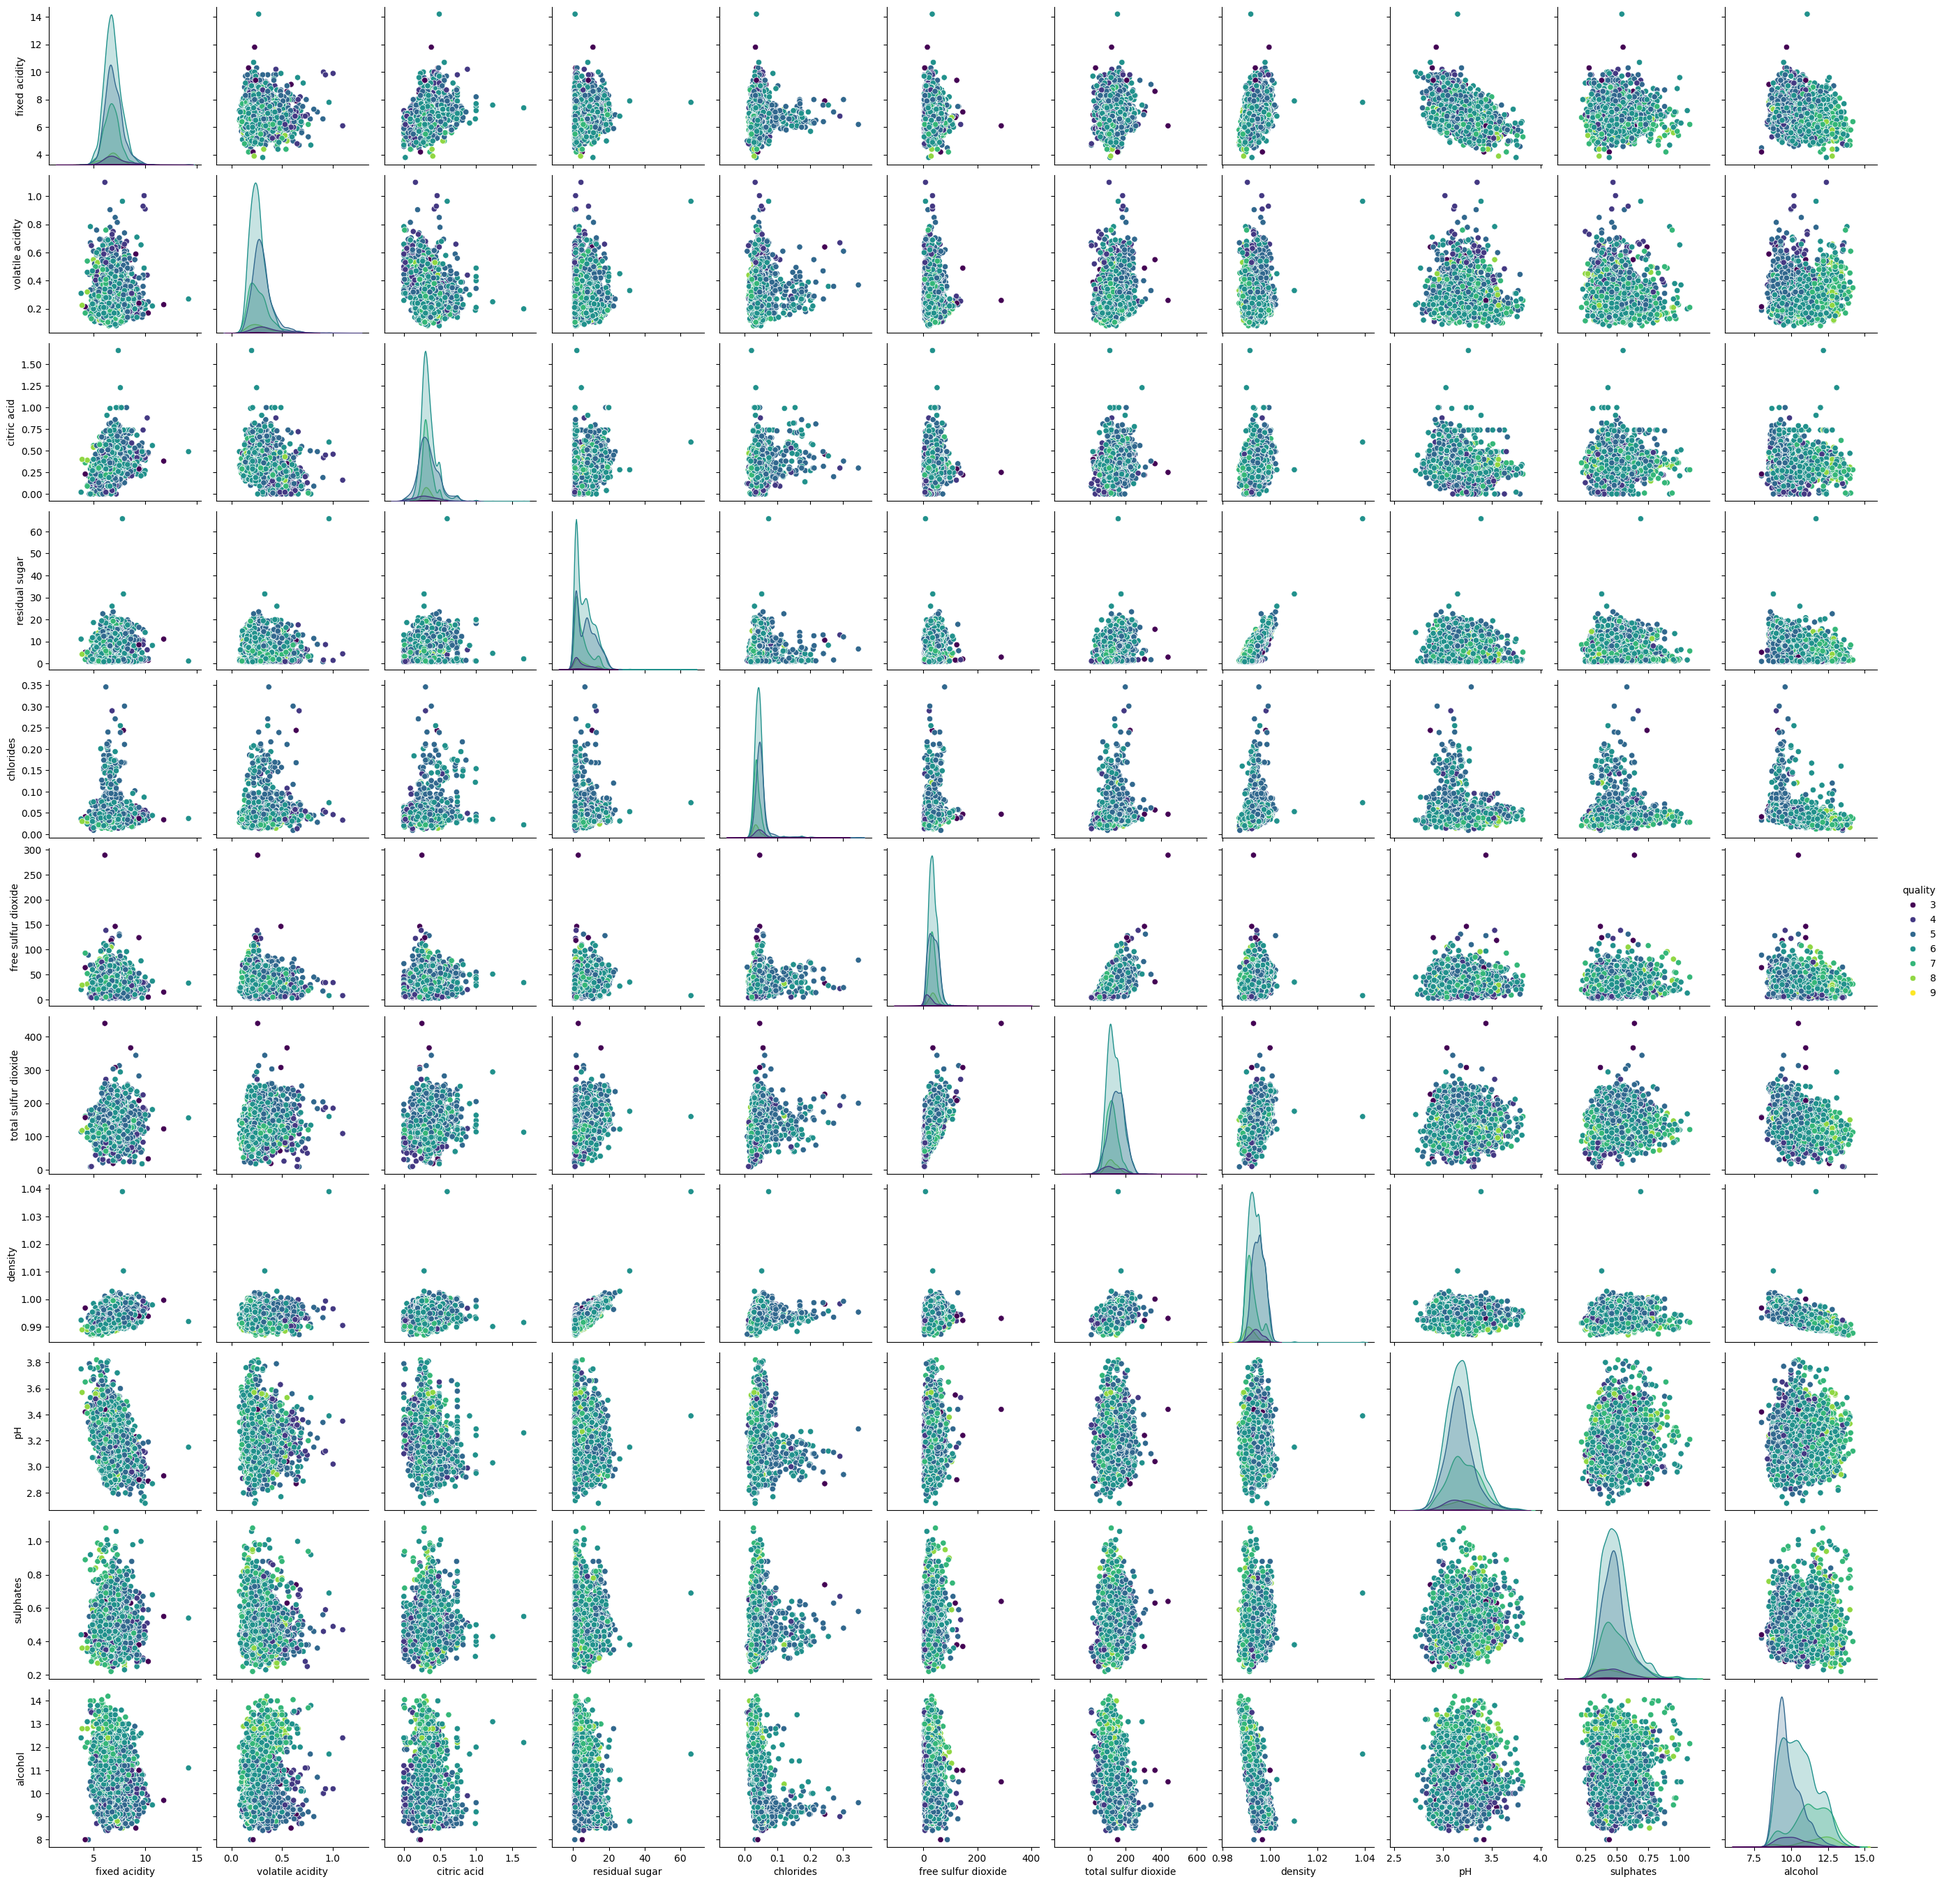
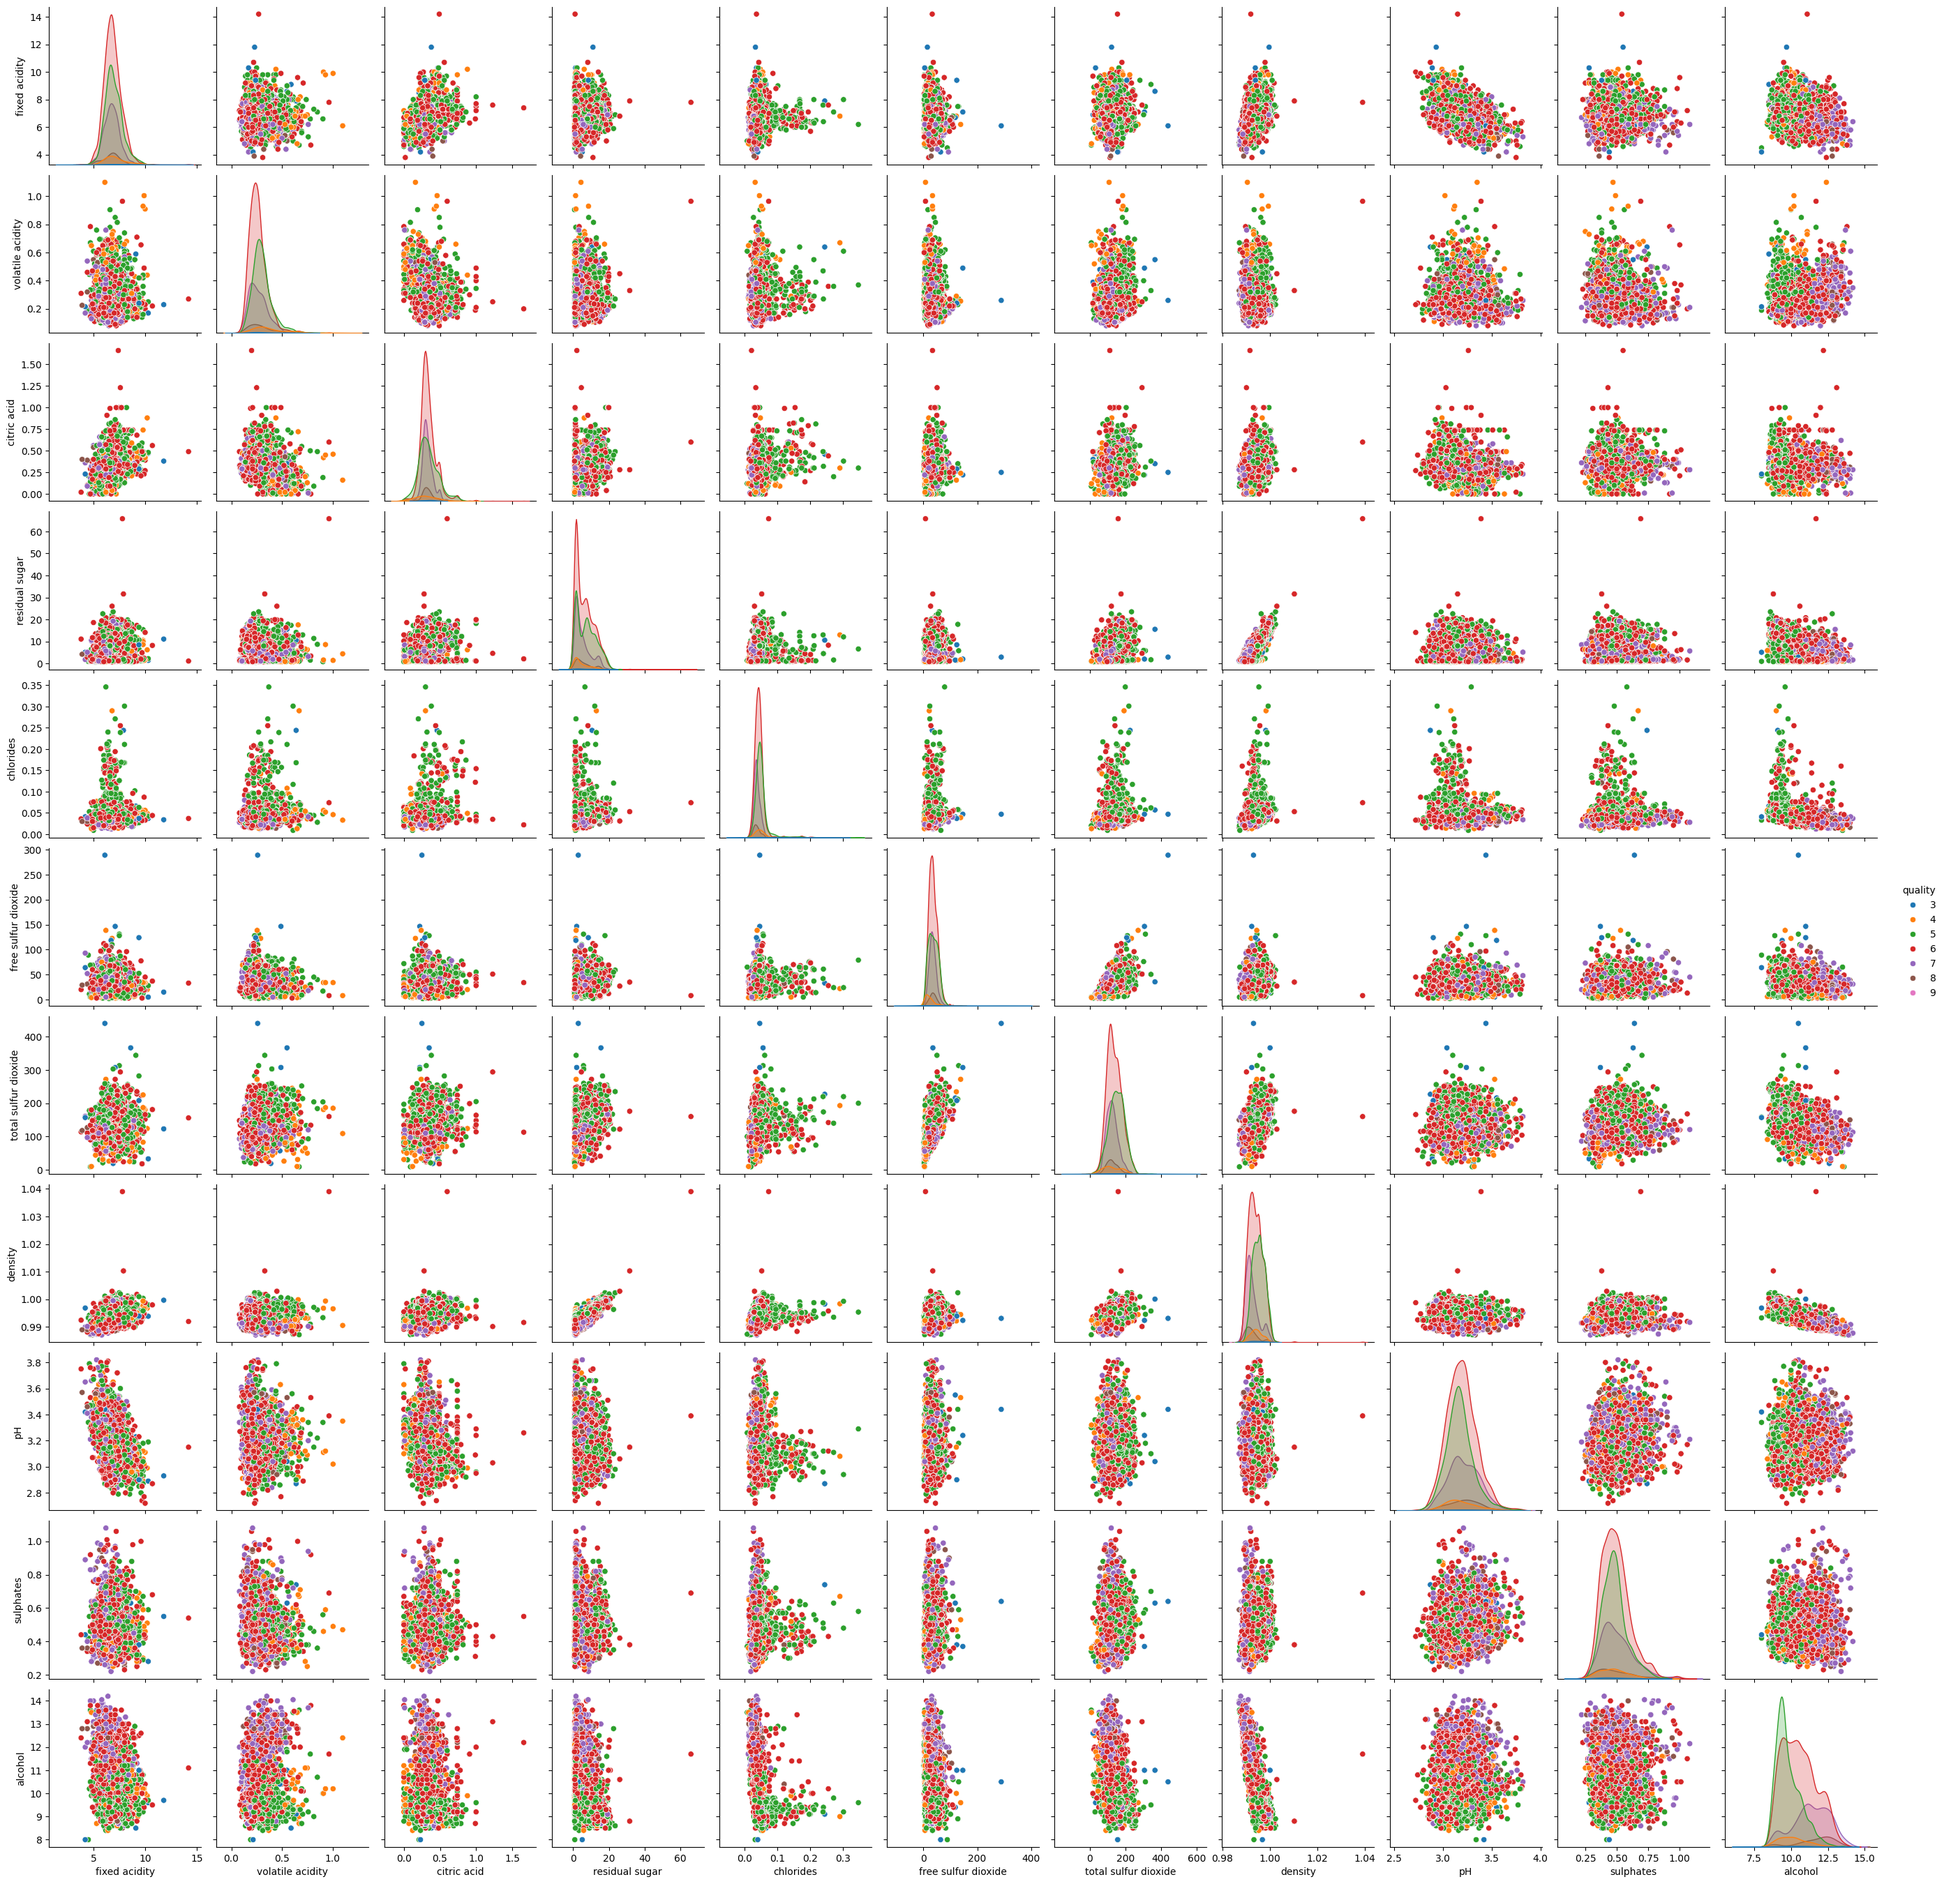
melhoria nas cores dos gráficos de dispersão.

diff --git a/hw01.py b/hw01.py
@@ -31,7 +31,7 @@ def executar_pca_manual(dataframe, nome_dataset, pasta_destino):
     df_pca = pd.DataFrame(data={'PC1': pc1, 'PC2': pc2, 'quality': y})
 
     plt.figure(figsize=(12, 8))
-    sns.scatterplot(data=df_pca, x='PC1', y='PC2', hue='quality', palette='viridis', alpha=0.7)
+    sns.scatterplot(data=df_pca, x='PC1', y='PC2', hue='quality', palette='tab10', alpha=0.7)
     plt.title(f'Análise de Componentes Principais (PCA) - {nome_dataset}')
     plt.xlabel('Componente Principal 1')
     plt.ylabel('Componente Principal 2')
@@ -236,12 +236,12 @@ if __name__ == "__main__":
         plt.close()
 
         print("Gerando Pairplot para os Vinhos")
-        pairplot_red = sns.pairplot(red_database, hue='quality', palette='viridis')
+        pairplot_red = sns.pairplot(red_database, hue='quality', palette='tab10')
         caminho_pairplot_red = os.path.join(pasta_graficos, 'red_pairplot.png')
         pairplot_red.savefig(caminho_pairplot_red)
         plt.close()
 
-        pairplot_white = sns.pairplot(white_database, hue='quality', palette='viridis')
+        pairplot_white = sns.pairplot(white_database, hue='quality', palette='tab10')
         caminho_pairplot_white = os.path.join(pasta_graficos, 'white_pairplot.png')
         pairplot_white.savefig(caminho_pairplot_white)
         plt.close()
